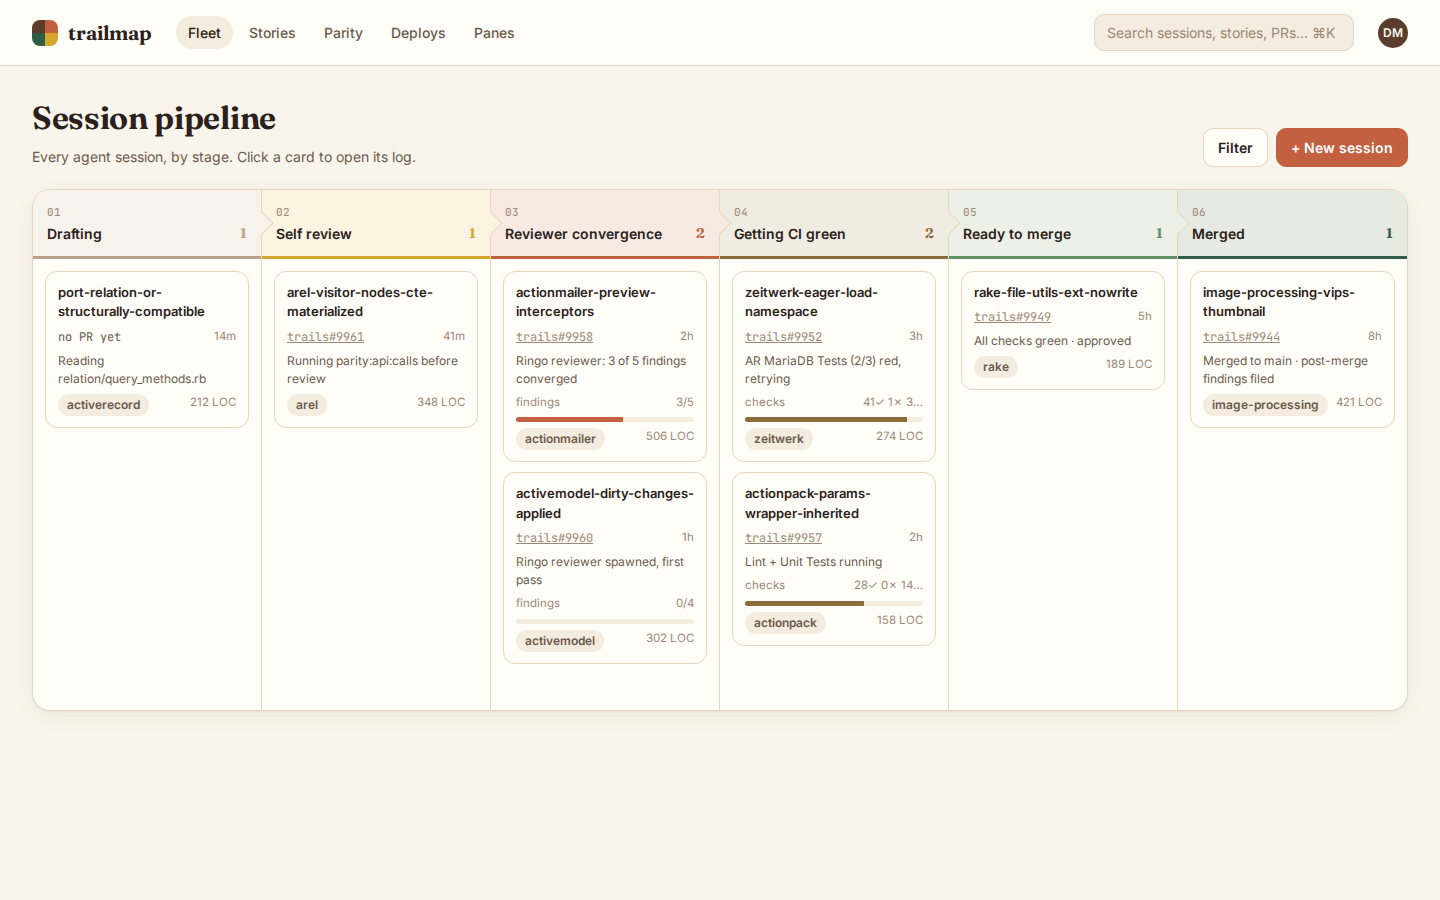
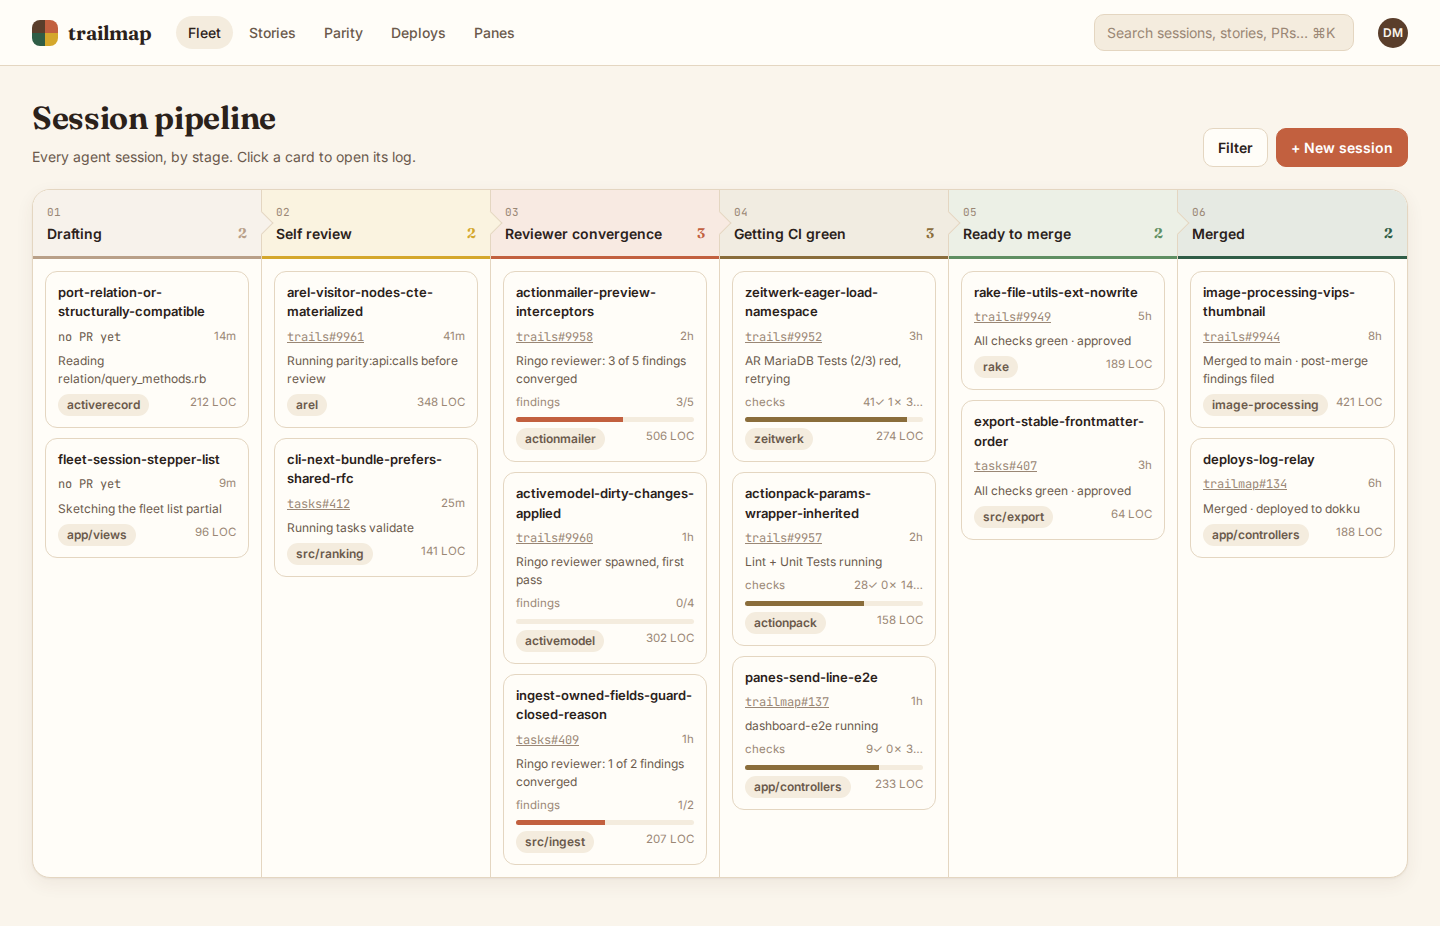
docs(concepts): group concept B's sessions by repo, ordered by stage

diff --git a/concepts/redesign/data.js b/concepts/redesign/data.js
@@ -9,14 +9,20 @@ window.STAGES = [
 ];
 
 window.SESSIONS = [
-  { id: "s1", stage: "drafting", story: "port-relation-or-structurally-compatible", rfc: "0047", pr: null, branch: "relation-or-compat-4a1c", pkg: "activerecord", loc: 212, age: "14m", note: "Reading relation/query_methods.rb" },
-  { id: "s2", stories: ["arel-visitor-nodes-cte-materialized", "arel-visitor-nodes-cte-not-materialized", "arel-with-recursive-visitor-arm"], stage: "self", story: "arel-visitor-nodes-cte-materialized", rfc: "0112", pr: 9961, branch: "arel-cte-materialized-77e0", pkg: "arel", loc: 348, age: "41m", note: "Running parity:api:calls before review" },
-  { id: "s3", stories: ["actionmailer-preview-interceptors", "actionmailer-preview-register-interceptor-string-arm"], stage: "ringo", story: "actionmailer-preview-interceptors", rfc: "0188", pr: 9958, branch: "mailer-preview-intc-2b9d", pkg: "actionmailer", loc: 506, age: "2h", note: "Ringo reviewer: 3 of 5 findings converged", ringo: { done: 3, total: 5 } },
-  { id: "s4", stories: ["zeitwerk-eager-load-namespace"], stage: "ci", story: "zeitwerk-eager-load-namespace", rfc: "0151", pr: 9952, branch: "zeitwerk-eager-ns-c013", pkg: "zeitwerk", loc: 274, age: "3h", note: "AR MariaDB Tests (2/3) red, retrying", ci: { pass: 41, fail: 1, run: 3 } },
-  { id: "s5", stories: ["rake-file-utils-ext-nowrite", "rake-file-utils-ext-verbose", "rake-file-utils-ext-when-writing", "rake-file-utils-ext-rake-check-options"], stage: "ready", story: "rake-file-utils-ext-nowrite", rfc: "0203", pr: 9949, branch: "rake-nowrite-9d2a", pkg: "rake", loc: 189, age: "5h", note: "All checks green · approved" },
-  { id: "s6", stories: ["image-processing-vips-thumbnail", "image-processing-vips-crop-gravity"], stage: "merged", story: "image-processing-vips-thumbnail", rfc: "0199", pr: 9944, branch: "vips-thumbnail-e1f7", pkg: "image-processing", loc: 421, age: "8h", note: "Merged to main · post-merge findings filed" },
-  { id: "s7", stage: "ringo", story: "activemodel-dirty-changes-applied", rfc: "0197", pr: 9960, branch: "am-dirty-applied-5c3b", pkg: "activemodel", loc: 302, age: "1h", note: "Ringo reviewer spawned, first pass", ringo: { done: 0, total: 4 } },
-  { id: "s8", stage: "ci", story: "actionpack-params-wrapper-inherited", rfc: "0164", pr: 9957, branch: "params-wrapper-inh-0aa8", pkg: "actionpack", loc: 158, age: "2h", note: "Lint + Unit Tests running", ci: { pass: 28, fail: 0, run: 14 } },
+  { repo: "trails", id: "s1", stage: "drafting", story: "port-relation-or-structurally-compatible", rfc: "0047", pr: null, branch: "relation-or-compat-4a1c", pkg: "activerecord", loc: 212, age: "14m", note: "Reading relation/query_methods.rb" },
+  { repo: "trails", id: "s2", stories: ["arel-visitor-nodes-cte-materialized", "arel-visitor-nodes-cte-not-materialized", "arel-with-recursive-visitor-arm"], stage: "self", story: "arel-visitor-nodes-cte-materialized", rfc: "0112", pr: 9961, branch: "arel-cte-materialized-77e0", pkg: "arel", loc: 348, age: "41m", note: "Running parity:api:calls before review" },
+  { repo: "trails", id: "s3", stories: ["actionmailer-preview-interceptors", "actionmailer-preview-register-interceptor-string-arm"], stage: "ringo", story: "actionmailer-preview-interceptors", rfc: "0188", pr: 9958, branch: "mailer-preview-intc-2b9d", pkg: "actionmailer", loc: 506, age: "2h", note: "Ringo reviewer: 3 of 5 findings converged", ringo: { done: 3, total: 5 } },
+  { repo: "trails", id: "s4", stories: ["zeitwerk-eager-load-namespace"], stage: "ci", story: "zeitwerk-eager-load-namespace", rfc: "0151", pr: 9952, branch: "zeitwerk-eager-ns-c013", pkg: "zeitwerk", loc: 274, age: "3h", note: "AR MariaDB Tests (2/3) red, retrying", ci: { pass: 41, fail: 1, run: 3 } },
+  { repo: "trails", id: "s5", stories: ["rake-file-utils-ext-nowrite", "rake-file-utils-ext-verbose", "rake-file-utils-ext-when-writing", "rake-file-utils-ext-rake-check-options"], stage: "ready", story: "rake-file-utils-ext-nowrite", rfc: "0203", pr: 9949, branch: "rake-nowrite-9d2a", pkg: "rake", loc: 189, age: "5h", note: "All checks green · approved" },
+  { repo: "trails", id: "s6", stories: ["image-processing-vips-thumbnail", "image-processing-vips-crop-gravity"], stage: "merged", story: "image-processing-vips-thumbnail", rfc: "0199", pr: 9944, branch: "vips-thumbnail-e1f7", pkg: "image-processing", loc: 421, age: "8h", note: "Merged to main · post-merge findings filed" },
+  { repo: "trails", id: "s7", stage: "ringo", story: "activemodel-dirty-changes-applied", rfc: "0197", pr: 9960, branch: "am-dirty-applied-5c3b", pkg: "activemodel", loc: 302, age: "1h", note: "Ringo reviewer spawned, first pass", ringo: { done: 0, total: 4 } },
+  { repo: "trails", id: "s8", stage: "ci", story: "actionpack-params-wrapper-inherited", rfc: "0164", pr: 9957, branch: "params-wrapper-inh-0aa8", pkg: "actionpack", loc: 158, age: "2h", note: "Lint + Unit Tests running", ci: { pass: 28, fail: 0, run: 14 } },
+  { repo: "trailmap", id: "m1", stage: "drafting", story: "fleet-session-stepper-list", stories: ["fleet-session-stepper-list", "fleet-bundle-story-links"], pr: null, branch: "fleet-stepper-7c2e", pkg: "app/views", loc: 96, age: "9m", note: "Sketching the fleet list partial" },
+  { repo: "trailmap", id: "m2", stage: "ci", story: "panes-send-line-e2e", pr: 137, branch: "panes-send-e2e-1b4f", pkg: "app/controllers", loc: 233, age: "1h", note: "dashboard-e2e running", ci: { pass: 9, fail: 0, run: 3 } },
+  { repo: "trailmap", id: "m3", stage: "merged", story: "deploys-log-relay", pr: 134, branch: "deploys-log-relay-a90d", pkg: "app/controllers", loc: 188, age: "6h", note: "Merged · deployed to dokku" },
+  { repo: "tasks", id: "t1", stage: "self", story: "cli-next-bundle-prefers-shared-rfc", pr: 412, branch: "next-bundle-rfc-3e8a", pkg: "src/ranking", loc: 141, age: "25m", note: "Running tasks validate" },
+  { repo: "tasks", id: "t2", stage: "ringo", story: "ingest-owned-fields-guard-closed-reason", stories: ["ingest-owned-fields-guard-closed-reason", "ingest-owned-fields-guard-assignee"], pr: 409, branch: "owned-fields-guard-55d1", pkg: "src/ingest", loc: 207, age: "1h", note: "Ringo reviewer: 1 of 2 findings converged", ringo: { done: 1, total: 2 } },
+  { repo: "tasks", id: "t3", stage: "ready", story: "export-stable-frontmatter-order", pr: 407, branch: "export-fm-order-c4b0", pkg: "src/export", loc: 64, age: "3h", note: "All checks green · approved" },
 ];
 
 window.LOG = [

diff --git a/concepts/redesign/b-stepper-list.html b/concepts/redesign/b-stepper-list.html
@@ -35,6 +35,9 @@
 .inline input, .inline select { font: inherit; background: var(--surface-2); border: 1px solid var(--line); border-radius: 10px; padding: 8px 10px; color: var(--ink); }
 .inline input { flex: 1; }
 .section-head { display: flex; align-items: baseline; gap: 12px; margin: 0 0 12px; }
+.section-head { margin-top: 28px; }
+.stagebar { display: flex; gap: 3px; margin-left: auto; }
+.stagebar i { width: 18px; height: 6px; border-radius: 3px; background: var(--c); }
 .section-head h2 { font-family: var(--display); font-size: 22px; margin: 0; }
 .filters { display: flex; gap: 8px; margin-bottom: 14px; }
 .sessions { display: flex; flex-direction: column; gap: 12px; }
@@ -94,6 +97,7 @@
 <body>
 <div id="app"></div>
 <script>
+const REPOS = ["trails", "trailmap", "tasks"];
 const storyList = (s) => s.stories || [s.story];
 const side = (s) => `
   <div class="side">
@@ -161,12 +165,13 @@ document.getElementById("app").innerHTML = topbar() + `
     <div class="panel"><h2>Manual spawn <small><a href="#">poke 1 stalled agent</a></small></h2>
       <div class="inline"><select><option>trails</option><option>trailmap</option><option>tasks</option></select><input placeholder="Enter a task for Claude…"><button class="btn primary" style="background:var(--forest);border-color:var(--forest)">Spawn</button></div></div>
   </div>
-  <div class="section-head"><h2>Sessions</h2><span class="muted">trails · ${SESSIONS.length} sessions</span></div>
-  <section class="sessions">${SESSIONS.map((s) => `
+  ${REPOS.map((repo) => { const list = SESSIONS.filter((s) => s.repo === repo).sort((a, b) => stageIdx(a.stage) - stageIdx(b.stage)); return `
+  <div class="section-head"><h2>${repo}</h2><span class="muted">${list.length} sessions · ${list.filter((s) => s.stage !== "merged").length} in flight</span><span class="stagebar">${list.map((s) => `<i class="stage-${s.stage}"></i>`).join("")}</span></div>
+  <section class="sessions">${list.map((s) => `
     <article class="card stage-${s.stage} ${openId === s.id ? "open" : ""}">
       <div class="card-main">
         <div>
-          <div class="meta" style="margin-bottom:6px">${stageChip(s.stage)} ${s.pr ? `<a class="pr-link" href="#" onclick="event.stopPropagation()">↗ trails#${s.pr}</a>` : `<span class="pr-link none">no PR yet</span>`} <span>${s.pkg}</span></div>
+          <div class="meta" style="margin-bottom:6px">${stageChip(s.stage)} ${s.pr ? `<a class="pr-link" href="#" onclick="event.stopPropagation()">↗ ${s.repo}#${s.pr}</a>` : `<span class="pr-link none">no PR yet</span>`} <span>${s.pkg}</span></div>
           <div class="stories">${storyList(s).map((id, i) => `<a href="#" class="story${i === 0 ? " lead" : ""}" onclick="event.stopPropagation()">${id}</a>`).join("")}${storyList(s).length > 1 ? `<span class="batch">bundle · ${storyList(s).length} stories</span>` : ""}</div>
           <div class="note">${s.note}</div>
         </div>
@@ -178,7 +183,7 @@ document.getElementById("app").innerHTML = topbar() + `
         ${side(s)}
       </div>
     </article>`).join("")}
-  </section>
+  </section>`; }).join("")}
 </main>`;
 const st = document.createElement("style"); st.textContent = stepperCss; document.head.append(st);
 document.querySelectorAll(".card-main").forEach((el) => el.onclick = () => el.parentElement.classList.toggle("open"));

diff --git a/concepts/redesign/common.js b/concepts/redesign/common.js
@@ -13,7 +13,7 @@ window.topbar = (active = "Fleet") => `
   </header>`;
 
 window.stageChip = (k) => `<span class="chip stage stage-${k}"><span class="dot"></span>${stageOf(k).label}</span>`;
-window.prLink = (s) => (s.pr ? `<a class="mono" href="#">trails#${s.pr}</a>` : `<span class="mono muted">no PR yet</span>`);
+window.prLink = (s) => (s.pr ? `<a class="mono" href="#">${s.repo}#${s.pr}</a>` : `<span class="mono muted">no PR yet</span>`);
 
 window.stepper = (k, { compact = false } = {}) => {
   const cur = stageIdx(k);
